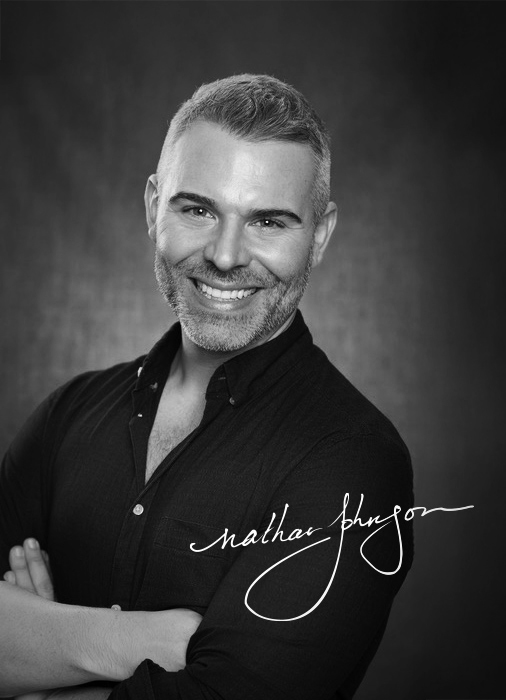
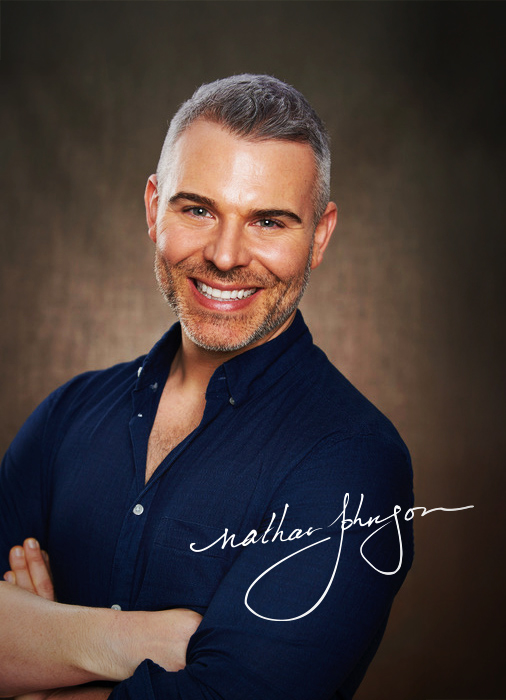
Added video and changed image

Changed region(s): [[0.0, 0.15, 0.7708, 1.0], [0.6225, 0.54, 0.6522, 0.57]]

diff --git a/src/app/(tailwind)/makeup-coaching/_components/instructor/index.tsx b/src/app/(tailwind)/makeup-coaching/_components/instructor/index.tsx
@@ -1,21 +1,76 @@
-import Image from 'next/image';
-import type { FC } from 'react';
-import { FadeIn } from '../../../_components/fadeIn';
+'use client';
 
+import { AnimatePresence, motion } from 'framer-motion';
+import { Play, X } from 'lucide-react';
+import Image from 'next/image';
+import type { FC, MouseEventHandler } from 'react';
+import { useState } from 'react';
+
+import { FadeIn } from '../../../_components/fadeIn';
 import NathanImage from './nathan.jpg';
+import { useEscapeKey } from '../../../../../hooks/useEscapeKey';
 
 export const Instructor: FC = () => {
+  const [isVideoOpen, setIsVideoOpen] = useState(false);
+
+  useEscapeKey(() => {
+    setIsVideoOpen(false);
+  });
+
+  const handleShow: MouseEventHandler = () => {
+    setIsVideoOpen(true);
+  };
+
+  const handleHide: MouseEventHandler = () => {
+    setIsVideoOpen(false);
+  };
+
   return (
     <section className="py-24 md:py-32 bg-linen-dark px-6 overflow-hidden">
+      {/* Video Modal */}
+      <AnimatePresence>
+        {isVideoOpen && (
+          <motion.div
+            initial={{ opacity: 0 }}
+            animate={{ opacity: 1 }}
+            exit={{ opacity: 0 }}
+            transition={{ duration: 0.3 }}
+            className="fixed inset-0 z-[100] flex items-center justify-center bg-black/90 backdrop-blur-sm p-4"
+          >
+            <button
+              onClick={() => setIsVideoOpen(false)}
+              className="absolute top-6 right-6 text-white/70 hover:text-white transition-colors p-2"
+              aria-label="Close video"
+            >
+              <X className="w-10 h-10" />
+            </button>
+
+            <div className="w-full max-w-5xl aspect-video bg-black rounded-lg overflow-hidden shadow-2xl relative">
+              <video src="https://32e10f05b345e8e8e33c-c7f4ae90fffa9b9f9644d0d7851e06ec.ssl.cf1.rackcdn.com/personal-makeup-nathan.mp4" width={1024} height={567} controls autoPlay />
+            </div>
+
+            {/* Close on background click */}
+            <div className="absolute inset-0 -z-10" onClick={handleHide} />
+          </motion.div>
+        )}
+      </AnimatePresence>
       <div className="max-w-6xl mx-auto grid grid-cols-1 lg:grid-cols-2 gap-12 lg:gap-20 items-center">
 
         {/* Image Stack */}
         <FadeIn className="relative order-2 lg:order-1">
-          <div className="relative z-10 aspect-[3/4] w-full max-w-md mx-auto bg-charcoal p-1">
-            <Image src={NathanImage} className="w-full h-full object-cover opacity-90" alt="Nathan Johnson" />
+          <div className="relative z-10 aspect-[3/4] w-full max-w-md mx-auto bg-charcoal p-1 cursor-pointer group" onClick={handleShow}>
+            <Image src={NathanImage} className="w-full h-full object-cover opacity-90 transition-opacity duration-300 group-hover:opacity-100" alt="Nathan Johnson" />
+
+            {/* Play Button Overlay */}
+            <div className="absolute inset-0 flex items-center justify-center bg-charcoal/10 group-hover:bg-charcoal/20 transition-colors duration-300">
+              <div className="w-20 h-20 rounded-full bg-white/60 backdrop-blur-[2px] flex items-center justify-center shadow-lg transition-transform duration-300 group-hover:scale-110 group-hover:bg-white/80">
+                <Play className="w-8 h-8 text-charcoal ml-1 fill-charcoal" />
+              </div>
+            </div>
           </div>
+
           {/* Decorative Elements */}
-          <div className="absolute -top-6 -left-6 w-full h-full border border-charcoal/30 z-0 hidden md:block max-w-md mx-auto left-0 right-0 lg:mx-0 lg:left-[-24px]" />
+          <div className="absolute -top-6 -left-6 w-full h-full border border-charcoal/30 z-0 hidden md:block max-w-md mx-auto left-0 right-0 mx-0 md:left-[-24px] md:right-6" />
         </FadeIn>
 
         {/* Text Content */}

diff --git a/src/hooks/useEventListener.ts b/src/hooks/useEventListener.ts
@@ -1,0 +1,54 @@
+import { useEffect, useRef } from 'react';
+
+// export type Handler = (event: Event) => void;
+export type Handler<E extends Event = Event> = (event: E) => void;
+
+/**
+ * Adds an event listener to an element
+ * @param eventName the name of the event to listen for, e.g., 'onClick'
+ * @param handler the handler to run, ideally a stable reference
+ * @param element the element to add the listener to
+ */
+export const useEventListener = <
+  T extends HTMLElement = HTMLElement,
+  E extends Event = Event,
+>(
+  eventName: string,
+  handler: Handler<E>,
+  element?: React.RefObject<T | null>
+): void => {
+  const savedHandler = useRef<Handler<E>>();
+
+  // Keep track of the latest handler
+  useEffect(() => {
+    if (!handler) {
+      return;
+    }
+    savedHandler.current = handler;
+  }, [handler]);
+
+  useEffect(() => {
+    // Make sure the element supports addEventListener
+    const targetElement = element?.current ?? window;
+    const isSupported = targetElement && 'addEventListener' in targetElement;
+    if (!isSupported) {
+      return;
+    }
+
+    // Create event listener that calls the handler stored in the ref
+    const eventListener: EventListener = (event) => {
+      // Safely check if the handler exists before calling it
+      if (savedHandler.current) {
+        savedHandler.current(event as E);
+      }
+    };
+
+    // Add event listener
+    targetElement.addEventListener(eventName, eventListener);
+
+    // Clean up when the component unmounts or the dependency changes
+    return () => {
+      targetElement.removeEventListener(eventName, eventListener);
+    };
+  }, [eventName, element]);
+}

diff --git a/src/app/(tailwind)/makeup-coaching/_components/testimonials/index.tsx b/src/app/(tailwind)/makeup-coaching/_components/testimonials/index.tsx
@@ -51,9 +51,7 @@ export const Testimonials: FC = () => {
                 </p>
               </div>
               <p className="font-sans text-xs tracking-widest uppercase text-yellow-100 flex items-center">
-                <div className="h-12 w-12 rounded-full overflow-hidden me-4">
-                  <Image src={review.imageSrc} alt={review.author} />
-                </div>
+                <Image src={review.imageSrc} alt={review.author} className="h-12 w-12 rounded-full overflow-hidden me-4" />
                 {review.author}
               </p>
             </FadeIn>

diff --git a/src/hooks/useEscapeKey.ts b/src/hooks/useEscapeKey.ts
@@ -1,0 +1,13 @@
+import { useEventListener } from './useEventListener';
+
+export const useEscapeKey = (callback: () => void) => {
+  
+  const handler = (e: KeyboardEvent) => {
+    // Check if the pressed key is the Escape key
+    if (e.key === 'Escape') {
+      callback();
+    }
+  }
+
+  useEventListener('keydown', handler);
+};
